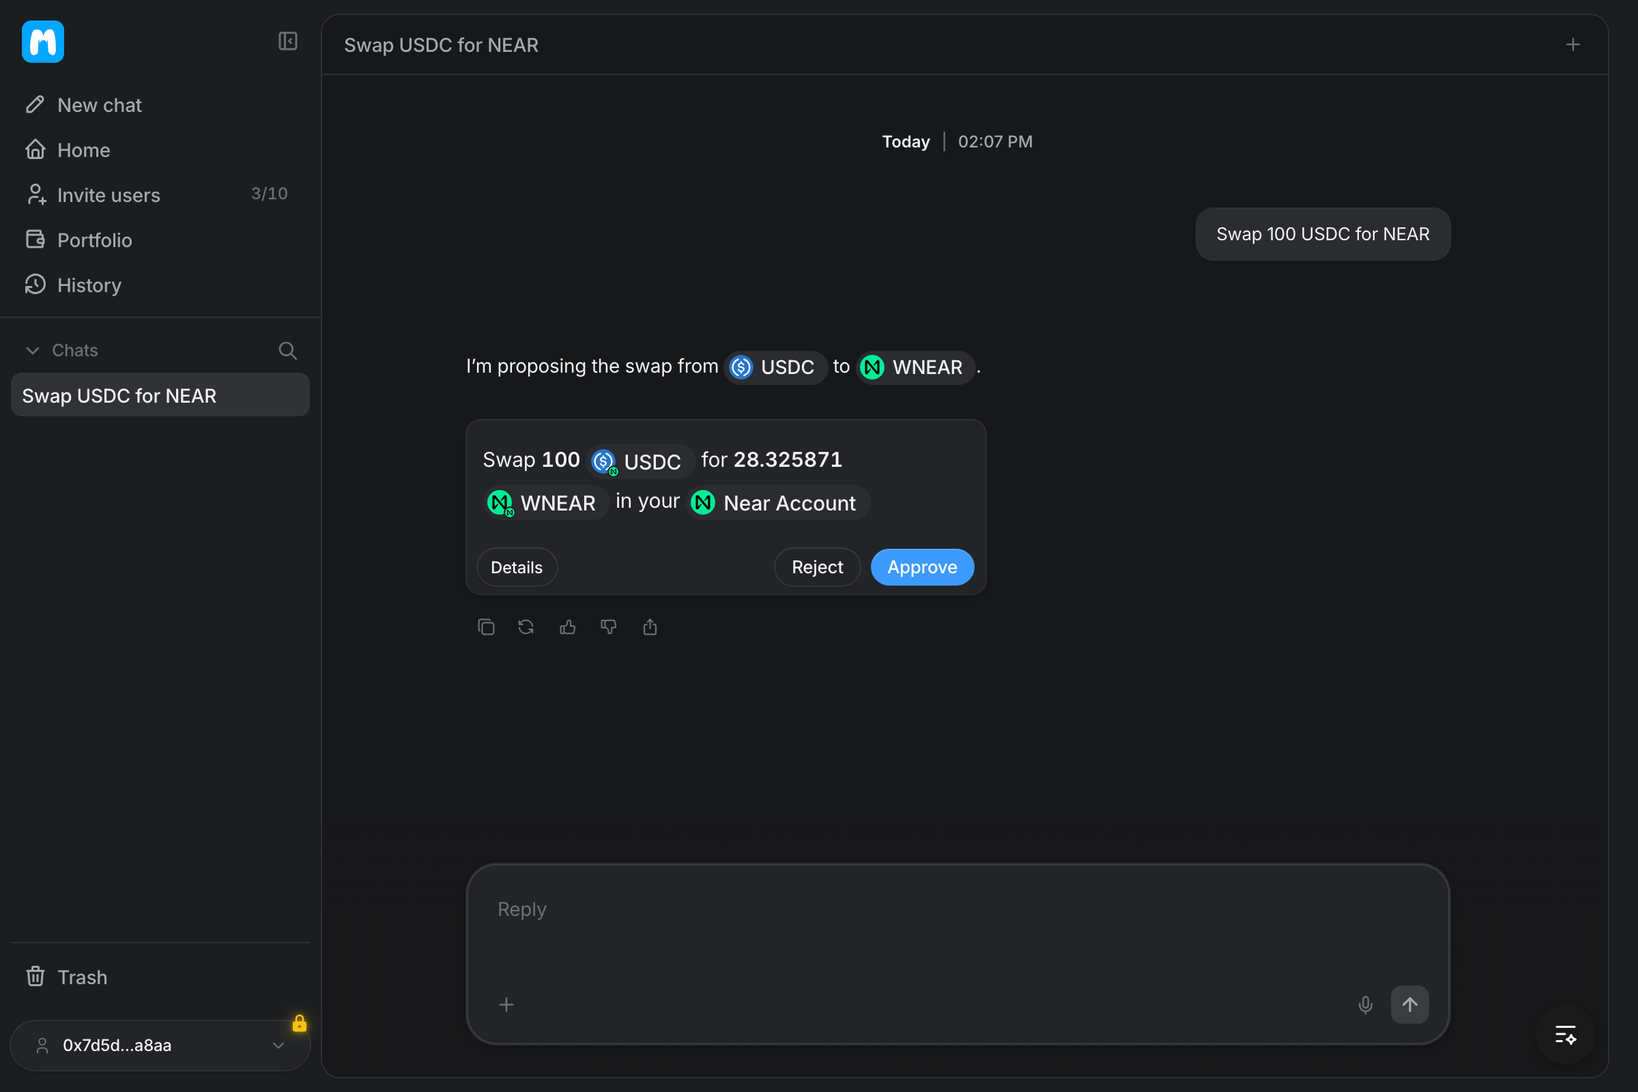
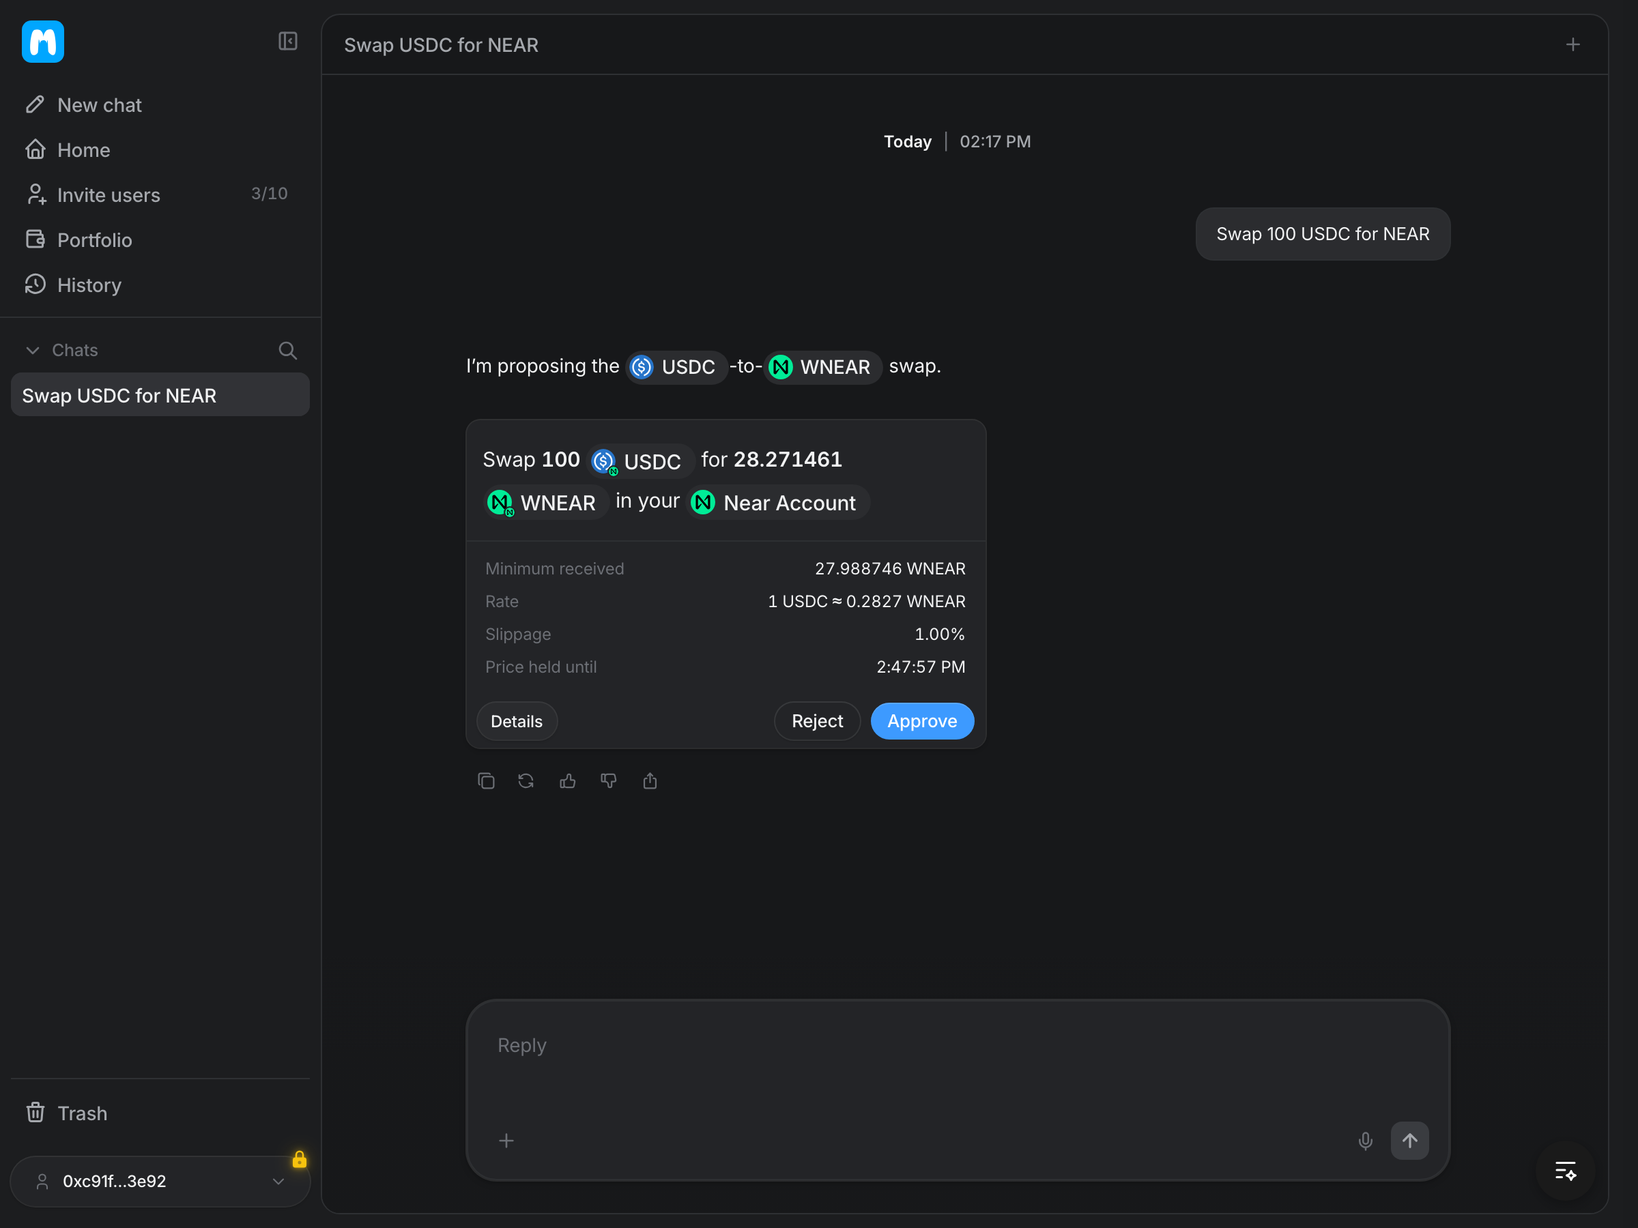
docs: rewrite the README around the live product
The README now opens with what the product does for a person rather than
with the install, shows the trade and sign-in screens, and explains the
layers, the settlement path, and the privacy default with diagrams.
The demo end card is kept beside the cut, while the raw screen
recordings are ignored because they are large and replaced on every
re-record.

diff --git a/demo/endcard.html b/demo/endcard.html
@@ -1,0 +1,57 @@
+<!doctype html>
+<html lang="en">
+  <head>
+    <meta charset="utf-8" />
+    <title>Myntle end card</title>
+    <style>
+      @font-face {
+        font-family: "Inter";
+        src: url("../assets/fonts/Inter-SemiBold.ttf") format("truetype");
+        font-weight: 600;
+        font-style: normal;
+      }
+      html,
+      body {
+        margin: 0;
+        background: #17181a;
+      }
+      .stage {
+        width: 1920px;
+        height: 1080px;
+        display: flex;
+        flex-direction: column;
+        align-items: center;
+        justify-content: center;
+        gap: 44px;
+        background: #17181a;
+        color: #f2f3f4;
+        font-family: "Inter", ui-sans-serif, system-ui, sans-serif;
+      }
+      .mark {
+        width: 132px;
+        height: 132px;
+        display: block;
+      }
+      .name {
+        font-size: 72px;
+        font-weight: 600;
+        letter-spacing: -0.032em;
+        line-height: 1;
+      }
+      .url {
+        font-size: 26px;
+        font-weight: 600;
+        letter-spacing: -0.01em;
+        color: #9a9da3;
+        margin-top: -18px;
+      }
+    </style>
+  </head>
+  <body>
+    <div class="stage" id="endcard">
+      <img class="mark" src="../public/myntle-logo.svg" alt="" />
+      <div class="name">Myntle</div>
+      <div class="url">myntle.xyz</div>
+    </div>
+  </body>
+</html>

diff --git a/README.md b/README.md
@@ -1,20 +1,142 @@
-<img src="public/myntle-logo.svg" alt="Myntle logo" width="72" />
+<p align="center">
+  <a href="https://myntle.xyz">
+    <img src="public/myntle-logo.svg" width="88" alt="Myntle" />
+  </a>
+</p>
 
-# Myntle
+<h1 align="center">Myntle</h1>
 
-Myntle is a chat-first finance application where you connect the wallet you already have, ask for a trade in plain language, approve exactly what you see, and watch what actually happened.
+<p align="center">
+  Myntle lets you ask for a trade in plain language, approve the exact numbers once, and see what actually settled.
+</p>
 
-## Overview
+<p align="center">
+  <a href="https://myntle.xyz"><img src="https://img.shields.io/badge/Website-myntle.xyz-00A6FF?style=flat-square&amp;logo=safari&amp;logoColor=white" alt="myntle.xyz" /></a>
+  <a href="https://x.com/myntlefinance"><img src="https://img.shields.io/badge/X-%40myntlefinance-0B0B0F?style=flat-square&amp;logo=x&amp;logoColor=white" alt="@myntlefinance on X" /></a>
+  <a href="https://github.com/myntlefinance"><img src="https://img.shields.io/badge/GitHub-myntlefinance-181717?style=flat-square&amp;logo=github&amp;logoColor=white" alt="myntlefinance on GitHub" /></a>
+</p>
 
-Myntle is for someone who already holds tokens and already has a wallet. You do not need to learn how the underlying networks work in order to ask for a trade, approve one, or read its outcome, and every technical detail stays available if you want it.
+<p align="center">
+  <a href="docs/images/trade.png">
+    <img src="docs/images/trade.png" alt="The Myntle chat proposing a swap of 100 USDC for NEAR, showing the minimum received, the rate, the slippage bound, and the time the price is held until, above the Approve and Reject controls." />
+  </a>
+</p>
 
-You connect an EVM wallet, a Solana wallet, or a NEAR wallet, and the same conversation works for all of them. You do not need a new account, you do not need gas on a new network, and you do not need a faucet. You type something like swapping a hundred USDC for NEAR, you see the quote before anything happens, you approve it once in your wallet, and the application follows the settlement until it can tell you what actually occurred.
+Myntle is for someone who already holds tokens and already has a wallet. You connect an EVM wallet, a Solana wallet, or a NEAR wallet, and the same conversation works for all three: you need no account on the chain that settles the trade, no gas on a new network, and no faucet.
 
-Safety in Myntle comes from keeping the assistant away from money. The assistant can only propose a trade and look up information, and it never sees your wallet, your address, or your signature. The application checks every amount and asset against your connected account, builds the transaction from its own records rather than from anything the assistant wrote, and treats a trade as finished only when the settlement record says so. A signature, a network response, or a sentence from the assistant is never treated as proof that money moved.
+> The assistant can propose a trade and look things up, but it cannot sign or move money. A trade is finished only when the settlement record says so.
 
-## Installation
+The assistant runs on NEAR AI Cloud, the trade settles through NEAR Intents, and the conversations and transaction records live in Supabase Postgres. The application holds no private keys and no funds. The live app is at [app.myntle.xyz](https://app.myntle.xyz).
 
-You need Bun 1.4.3 and Node 22 or newer. Bun manages packages and runs the local server, and Node is what runs the production build.
+## What you can do
+
+### A trade is a sentence
+
+You type something like swapping a hundred USDC for NEAR, and the assistant turns it into a quote instead of a guess. You see what you would receive, the minimum you would accept, the rate, the slippage bound, and the moment the quote expires. Nothing is signed before you approve that card, and rejecting it is a normal answer that leaves the conversation running.
+
+### Any wallet works
+
+EVM wallets connect through wagmi and viem, Solana wallets through the Wallet Standard, and NEAR wallets through near-connect, all behind one interface. You can also sign in with a passkey. The conversation does not change with the wallet, because every wallet can sign the intent that settles the trade.
+
+<p align="center">
+  <a href="docs/images/wallets.png">
+    <img src="docs/images/wallets.png" alt="The Myntle sign-in dialog with a passkey option, rails for EVM, Solana, and NEAR, and cards for MetaMask, Coinbase Wallet, Rainbow, and Rabby." />
+  </a>
+</p>
+
+The portfolio is the same account seen from another angle. It shows your on-chain balances and your private balance, and it can track any address read-only without asking for a signature.
+
+### You approve the numbers, and the record decides
+
+The approval is bound to the quote the server saved, not to anything the browser sends back. If the values are changed in devtools, the server refuses with "The trade changed since it was priced." If the quote has expired, it refuses that too, and the card has already expired on screen. After you sign, the trade moves through quoted, authorized, submitted, pending, and settled only as the settlement source confirms each step. When funds arrive but the trade is never filled, the screen says the money is coming back instead of painting a success for half of the story.
+
+### The assistant reads the market too
+
+A trade is not the only thing you can ask about. The same turn can search Google News, Reddit, and X, read the full text of a page it found, and resolve an ENS or SNS name. Those reads are fetched once per turn and served back in blocks rather than cut down to a display limit, so a long X thread stays whole and the model does not pay for the same search twice.
+
+### Privacy is the default
+
+Every trade quote is confidential, and there is no public mode to select. A trade between two external chains asks the verifier for basic or advanced confidentiality, and a trade that spends the balance inside NEAR Intents signs against `CONFIDENTIAL_INTENTS`. The interface calls that balance the Super account: it is unlocked in the browser, the access token never reaches the server, and the private read goes straight to 1Click.
+
+## How it works
+
+Myntle is four layers that can be replaced independently: a Next.js client that renders the conversation and the cards, a server route that owns the model and the tools, deterministic code that authorizes and executes a trade, and a durable workflow that reconciles the result.
+
+```mermaid
+flowchart TB
+  subgraph browser["Browser"]
+    direction LR
+    ui["Chat, quote and approval cards"]
+    wallet["EVM, Solana, or NEAR wallet"]
+  end
+
+  subgraph server["Next.js on Vercel"]
+    direction LR
+    chat["/api/chat<br/>durable turn"]
+    approve["Approval routes<br/>revalidate the saved quote"]
+    lifecycle["Swap workflow<br/>submit, poll, reconcile"]
+  end
+
+  subgraph services["Services"]
+    direction LR
+    model["NEAR AI Cloud"]
+    intents["NEAR Intents<br/>1Click"]
+    db[("Supabase Postgres")]
+  end
+
+  ui -->|message| chat
+  chat --> model
+  chat --> intents
+  ui -->|approval| approve
+  wallet -->|signature| approve
+  approve --> lifecycle
+  lifecycle --> intents
+  lifecycle --> db
+  chat --> db
+```
+
+The chat turn is a workflow run rather than a response-owned stream, so a reload or a dropped connection resumes the same answer instead of cancelling it. The toolset holds eighteen tools, scoped to the intent of each turn. Three of them can propose a movement of funds, and each one pauses for approval; the rest only read or ask you to unlock the Super account. No tool signs, and every trade passes through server validation before it can become a transaction.
+
+The approval routes validate the request against the connected account, and once the intent is signed and submitted, `swap-lifecycle` polls the settlement and records the outcome. The workflow holds no state of its own: everything is written to Postgres as it goes, a failed status poll is retried, and a settlement that failed on chain is final. The portfolio's price feed is a separate Cloudflare Worker that combines several sources behind one cache and a live stream; a trade quote always uses 1Click's own amount.
+
+## How a swap settles
+
+```mermaid
+sequenceDiagram
+  autonumber
+  actor U as You
+  participant App as Myntle
+  participant M as NEAR AI Cloud
+  participant S as NEAR Intents
+  participant DB as Postgres
+
+  U->>App: Swap 100 USDC for NEAR
+  App->>M: the message and the tool registry
+  M->>App: get_quote
+  App->>S: quote request
+  S-->>App: amount out, minimum out, expiry
+  App-->>M: the quote
+  M-->>App: prepare_swap
+  App-->>U: the approval card, bound to the quote
+  U->>App: Approve
+  App->>App: re-check the saved quote
+  U->>App: sign the intent once
+  App->>S: submit the signed intent
+  App->>DB: record submitted
+  loop until the settlement is final
+    App->>S: get status
+    S-->>App: settled, refunded, or failed
+  end
+  App->>DB: record the outcome
+  U->>App: open the transaction
+  App-->>U: the record, never the model's claim
+```
+
+The server rebuilds the intent from the parameters it saved before the card was shown, the wallet signs a message rather than a transaction, and the signed intent settles inside the verifier contract. The user needs no NEAR account and no gas, and the signature never passes through the model.
+
+## Quickstart
+
+Bun 1.4.3 manages packages and runs the development server. Node 22 or newer runs the production build and the test suite.
 
 ```bash
 bun install
@@ -22,69 +144,68 @@ cp .env.example .env.local
 bun run dev
 ```
 
-Fill in `.env.local` before you expect trades to work. The secrets are the NEAR AI Cloud key, the 1Click partner key, the WalletConnect project id, the Supabase service role key, and the approval secret. The contract addresses and RPC URLs are configuration rather than secrets. Never commit the filled-in file.
+Fill in `.env.local` before you expect trades to work. The trade path needs the NEAR AI Cloud key, the 1Click partner key, the WalletConnect project id, the Supabase URL and service role key, and the approval secret. The news tools need their own keys and are optional. Contract addresses and RPC URLs are configuration rather than secrets, and the filled-in file is never committed.
 
-```bash
-bun run build      # production build
-bun run typecheck  # TypeScript checks
-bun run lint       # lint checks
-bun run test       # test suite, which runs on Node
-bunx workflow web  # inspector for the swap workflow
+| Command | What it does |
+|---|---|
+| `bun run dev` | Development server on Bun |
+| `bun run build` | Production build |
+| `bun run typecheck` | TypeScript checks |
+| `bun run lint` | ESLint |
+| `bun run test` | Vitest, which runs on Node |
+| `bun run workflow:web` | Inspector for durable runs |
+| `bun run prices:deploy` | Deploy the price Worker |
+
+## Project layout
+
+```text
+app/
+  api/chat/route.ts              the assistant turn
+  api/chat/[id]/stream/route.ts  replay from the client's cursor
+  api/approve/route.ts           approval to the swap workflow
+  api/intents/                   confidential quote, deposit, and submit
+  api/tx/[id]/route.ts           the transaction record
+  (app)/page.tsx                 the chat screen
+workflows/
+  chat-turn.ts                   model, tools, persistence
+  swap-lifecycle.ts              submit, poll, reconcile
+lib/
+  ai/                            provider, prompts, tool registry
+  intents/                       quotes, approval checks, settlement
+  wallet/                        EVM, Solana, and NEAR adapters
+  news/                          Google News, Reddit, and X
+  db/                            schema and queries
+components/
+  app/                           chat, cards, portfolio, history
+  finance/                       money screens and primitives
+  site/                          the chat harness
+cloudflare/prices/               the price Worker
+supabase/                        migrations
 ```
-
-The project uses `"type": "module"` because the AI SDK is ESM only, and it pins React to 19.2 so the dependency range stays inside what the chat library supports.
-
-## Features
-
-You can trade by writing a sentence. You ask for a swap the way you would explain it to a person, and the assistant turns that into a concrete quote instead of guessing around a failure.
-
-You can bring any of the three supported wallets. EVM wallets connect through wagmi and viem, Solana wallets connect through the Wallet Standard, and NEAR wallets connect through near-connect, and all three sit behind one interface so the conversation does not change with the wallet.
-
-You always see the trade before you sign it. The quote shows what you would receive and the least you would accept, and the approval shows where the funds go, where a refund would return, and when the quote expires. The approval is bound to those exact parameters, so what you sign is what you saw. Fees are inside the quoted amounts rather than a separate line, because the settlement API prices all-in and returns no separate fee figure to display.
-
-You can follow the trade after you approve it. The timeline is driven by the transaction record rather than by the conversation, so it moves through quoted, approved, submitted, and settled only as the settlement source confirms each step. When funds arrive but the trade is never filled, the screen says the money is coming back instead of showing a success for part of the story.
-
-You keep your keys. The application holds no private keys and no funds, sign-in uses a single-use message bound to your address, chain, and expiry, and every movement of money in this release waits for a person to approve it.
-
-## Architecture
-
-The conversation runs in the browser, the assistant runs on the server, and settlement is read from the record of what happened rather than from what the assistant said.
-
-```
-Browser ──▶ /api/chat ──▶ NEAR AI Cloud, which proposes trades and looks things up
-   │
-   ├──▶ /api/approve ──▶ builds the transaction and asks your wallet to sign once
-   │         │
-   │         └──▶ swap workflow ──▶ submits, waits, checks, and reconciles
-   │
-   └──▶ /api/tx/[id] ──▶ Postgres record of the conversation and the transaction
-```
-
-The interface is a Next.js application that renders the conversation, the quote card, the approval card, and the transaction timeline. The chat route owns the model, the tool registry, and the approval policy, and it never sees a wallet. The registry has six tools, where five only read balances, assets, quotes, and status, and one proposes a swap and always asks for your approval first. The approval route validates the request against your connected account and starts a durable workflow that submits the trade, sleeps between checks, and records the outcome in Supabase Postgres. Amounts always carry their chain and contract identity, and an address is always read together with its chain, because the same ticker on two chains is a different asset and the same wallet on two chains is a different account.
-
-The key paths are `app/api/chat/route.ts` for the assistant, `app/api/approve/route.ts` for approval, `workflows/swap-lifecycle.ts` for the durable swap lifecycle, `lib/intents/service.ts` for quotes and status, `lib/wallet/` for the three wallet adapters, and `lib/db/` for the conversation and transaction records.
 
 ## Verification
 
-These checks need only the install above plus the keys in `.env.local`. No funds move in any of them except the last, which moves your own test amount on your own wallet.
+These checks need the install above and the keys in `.env.local`. The first four move no funds; the fifth reads outcomes from trades you have already made; and the last is the four commands that must pass.
 
 1. Pricing is live: ask "what can I trade" and then "price 100 USDC to NEAR". The amounts come from the 1Click quote API, tickers resolve to full chain contract ids, and an unknown ticker gets a plain refusal instead of a guess.
-2. Approval binds: open devtools, edit the approval payload before signing, and submit. The server compares against its saved quote and rejects with "The trade changed since it was priced" — nothing is created.
-3. Expiry holds: wait five minutes past a quote card and approve. The card reads expired locally, and the server rejects stale quotes with "Your approval has expired."
+2. Approval binds: open devtools, edit the approval payload before signing, and submit. The server compares it against its saved quote and rejects with "The trade changed since it was priced." Nothing is created.
+3. Expiry holds: wait past a quote card and approve it. The card reads expired locally, and the server rejects the stale quote with "Your approval has expired."
 4. Refusal continues: press Reject on a card. The card paints denied and the conversation carries on; nothing hangs.
-5. Outcomes differ: a failed trade paints failed, a refunded one paints refunded with the money-back meaning, and anything still moving keeps polling its record. Close the laptop mid-trade and reopen `/api/tx/[id]` — the state moved on alone.
-6. Full loop: `bun run typecheck`, `bun run lint`, `bun run test`, `bun run build`. The build compiles the workflows; all four must pass.
+5. Outcomes differ: a failed trade paints failed, a refunded one paints refunded with the money-back meaning, and anything still moving keeps polling its record. Close the laptop mid-trade and reopen the transaction; the state moved on alone.
+6. Full loop: `bun run typecheck`, `bun run lint`, `bun run test`, and `bun run build` must all pass. The build compiles both workflows.
 
-## Contribution
+For development without a browser extension, setting `DEV_WALLET_KEY` installs a keyed provider that signs the challenge for real. It covers EVM only, and the dev wallet route returns 404 in a production build.
 
-Start from the documentation set in `context/` if it is present, and from `PRODUCT.md` and `AGENTS.md` in any case, because several early assumptions were overturned during research and the corrections live there.
+## Contributing
+
+Start with `PRODUCT.md` for who the product is for and what it refuses to do, `DESIGN.md` for the interface foundation, and `AGENTS.md` for the rules a contributor or an agent has to follow. Several early assumptions were overturned during research, and the corrections live in those files.
 
 Prototype interface work in the lab before building it into the product. Create a component in `components/lab/samples/` that takes an optional variant, register it in `components/lab/registry.ts`, iterate at `/lab`, and move the finished version into `components/finance/`. Nothing in the application imports from the lab, so a prototype cannot break anything that ships.
 
-Keep tools narrow and keep the assistant away from money. Each tool does one job, only the swap tool changes anything, and no new signing or network tool may be added. Model output never reaches a signature without passing through server validation, approvals stay cryptographically checked, and every agent call sets an explicit step bound.
+Keep tools narrow and keep the assistant away from money. Each tool does one job, only three can propose a movement of funds, and no new signing or network tool may be added. Model output never reaches a signature without passing through server validation, approvals stay cryptographically checked, and every agent call sets an explicit step bound.
 
 Do not commit secrets, do not sign a mainnet transaction or spend funds without an explicit instruction from the person in charge, and write interface copy as sentences a person could say out loud. If a line of text can be deleted without losing meaning, delete it, and keep numbers on screen to the ones the reader needs in order to decide.
 
 ## Credits
 
-The interface foundation comes from BeautifulUI. The primitives in `components/atoms/` and `components/primitives/`, the harness in `components/site/Harness.tsx` that this application drives with the live assistant, and the design tokens the finance screens build on are adapted from that system, and the finance screens themselves were built for this project.
+The interface foundation comes from BeautifulUI. The primitives in `components/atoms/` and `components/primitives/`, the harness in `components/site/Harness.tsx` that this application drives with the live assistant, and the design tokens the finance screens build on are adapted from that system, and the finance screens themselves were built for this project. Settlement and quotes are NEAR Intents' 1Click, the model runs on NEAR AI Cloud, and durable execution uses the Workflow SDK.
